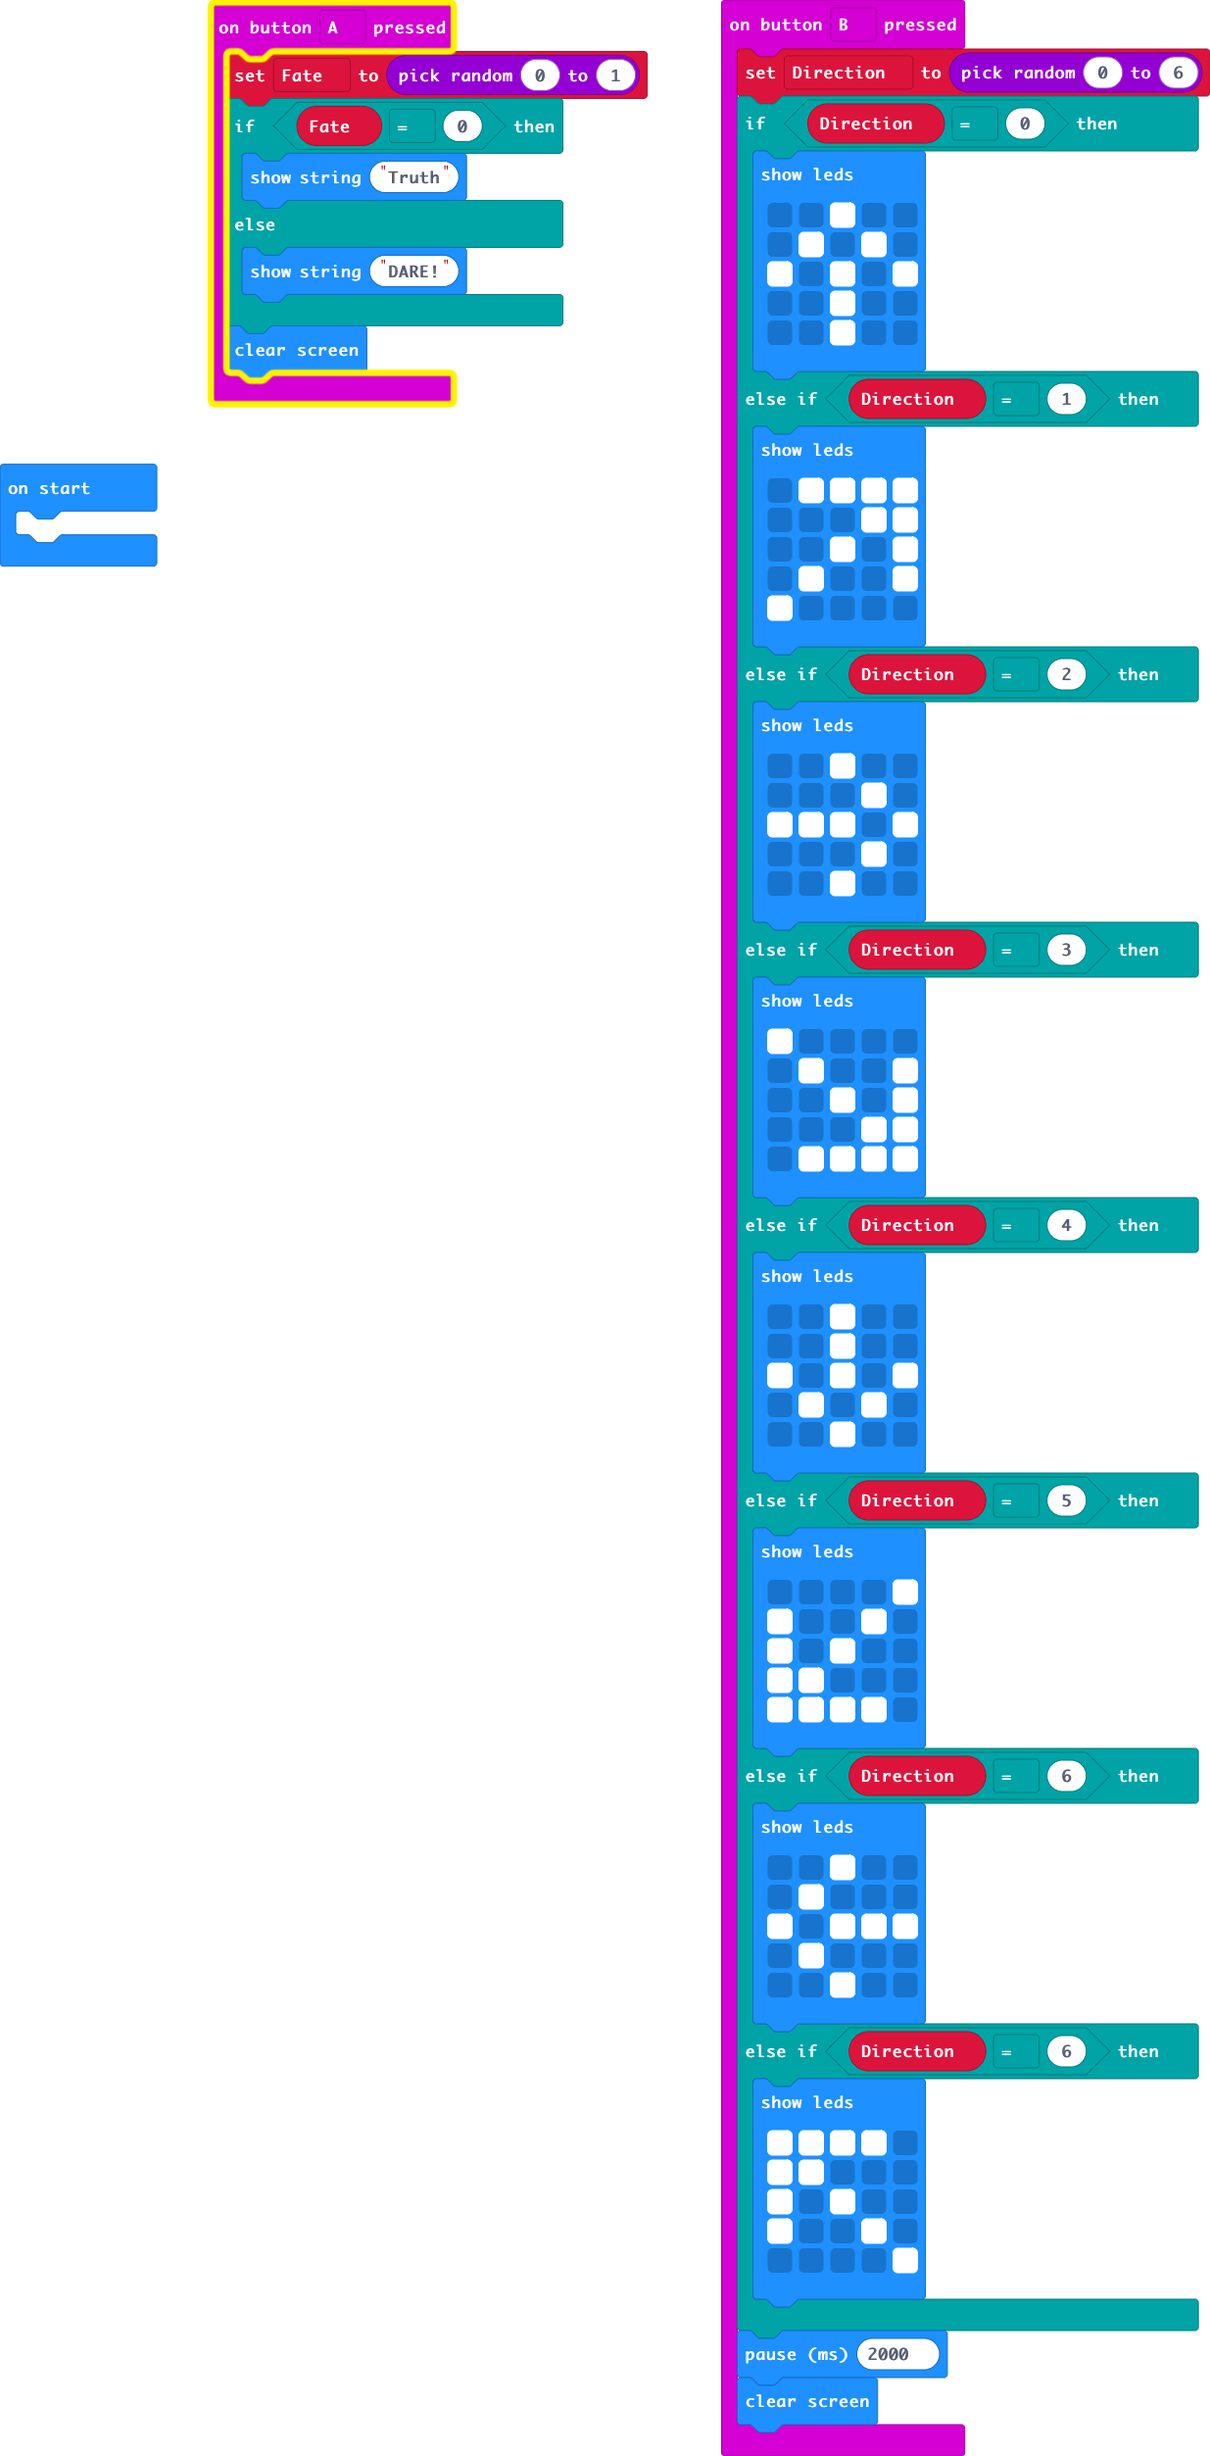
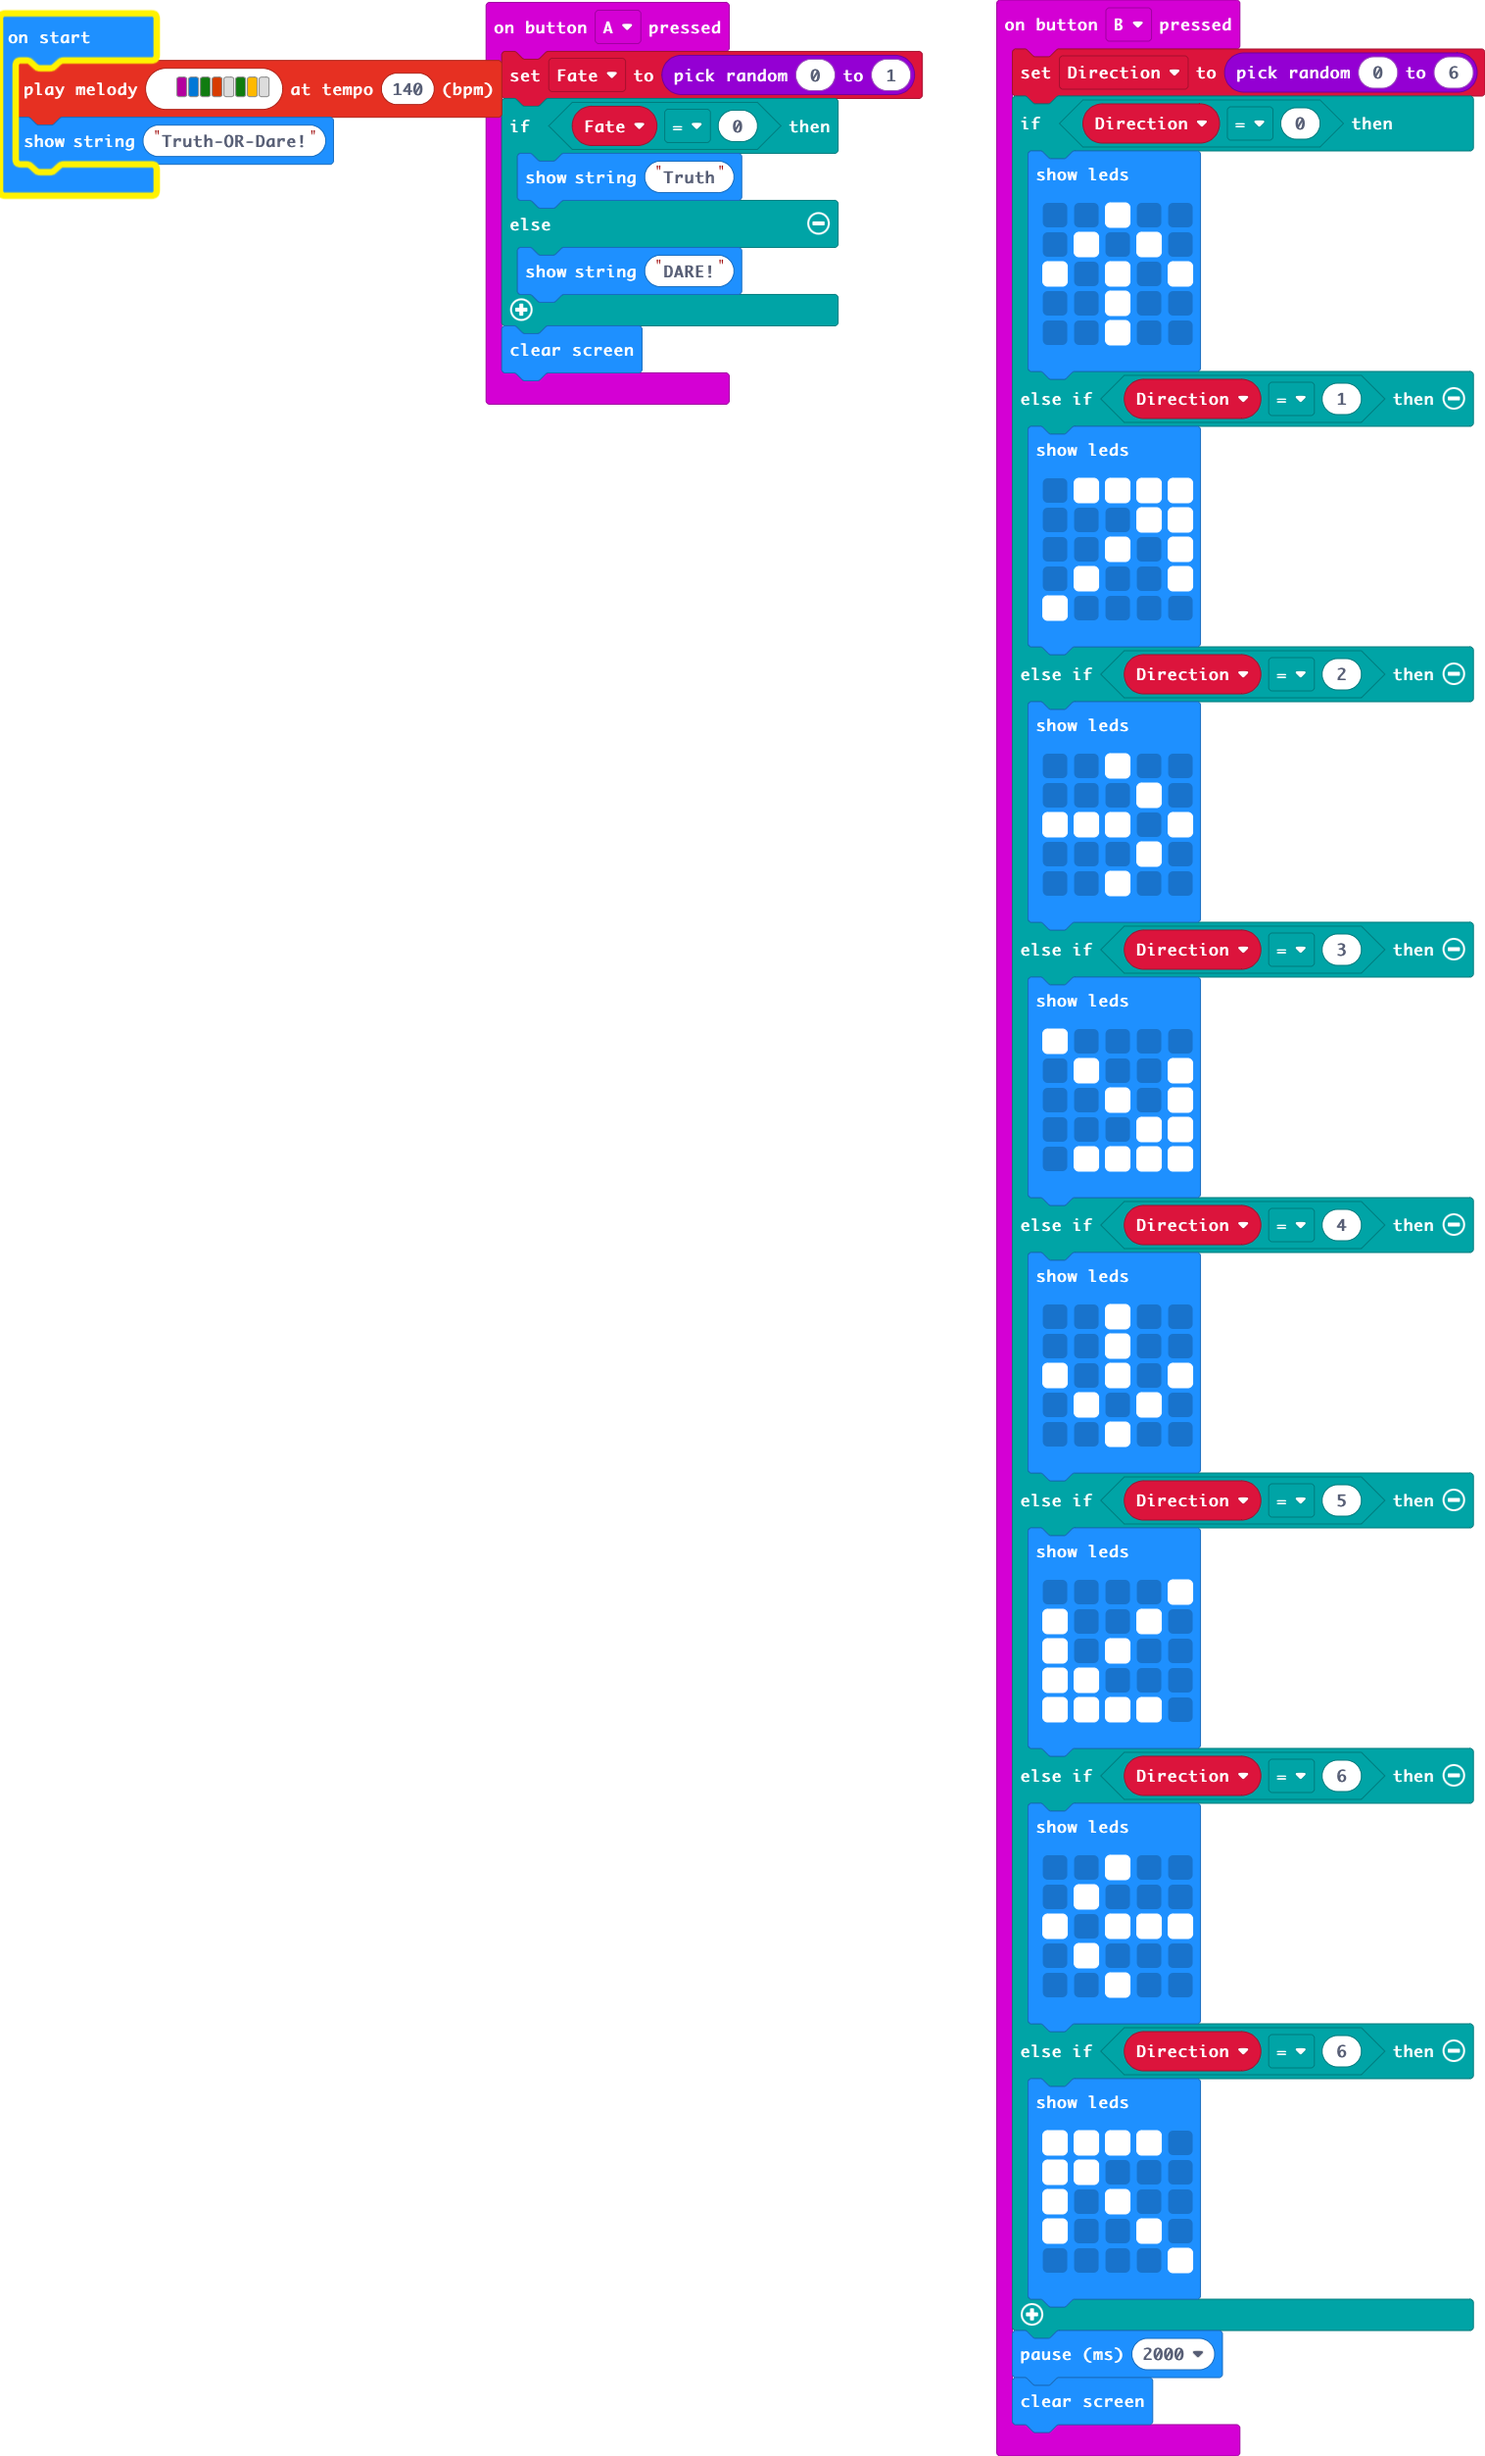
Added an intro

Changed region(s): [[0.0, 0.0, 1.0, 1.0], [0.0, 0.1868, 0.1538, 0.249]]

diff --git a/main.ts b/main.ts
@@ -1,5 +1,3 @@
-let Fate = 0
-let Direction2 = 0
 input.onButtonPressed(Button.A, function () {
     Fate = randint(0, 1)
     if (Fate == 0) {
@@ -79,3 +77,7 @@ input.onButtonPressed(Button.B, function () {
     basic.pause(2000)
     basic.clearScreen()
 })
+let Direction2 = 0
+let Fate = 0
+music.playMelody("C E G B - G A - ", 140)
+basic.showString("Truth-OR-Dare!")
